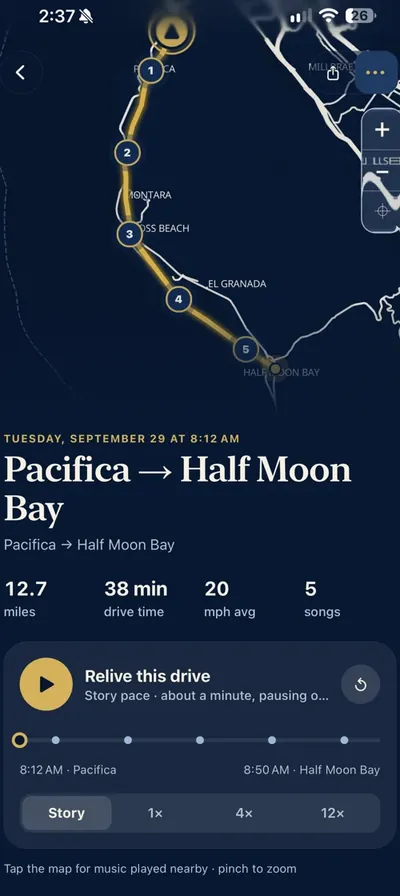
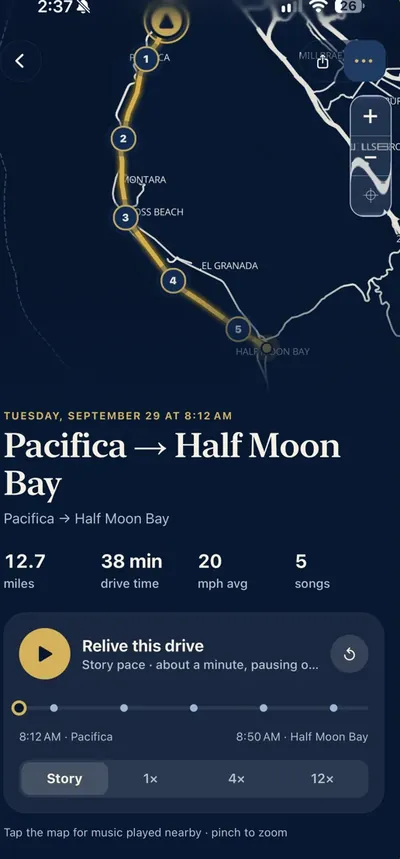
Speed up the Tesla page hero and say each fact once.
Preload the hero photo, pair the replay and Atlas shots, and match the FAQ and verify:live checks to the shorter copy.

diff --git a/web/tesla-drive-journal.html b/web/tesla-drive-journal.html
@@ -22,10 +22,12 @@
   <meta name="twitter:image:alt" content="JourneyDeck: every route, every song, every memory. A phone showing a Summer Vacation Memory.">
   <link rel="icon" type="image/png" sizes="192x192" href="/assets/favicon.png?v=app-logo-1">
   <link rel="apple-touch-icon" href="/assets/journeydeck-cinematic-180.png">
+  <link rel="preload" as="image" href="/assets/beta/grand-touring-home-800.webp?v=1" imagesrcset="/assets/beta/grand-touring-home-800.webp?v=1 800w, /assets/beta/grand-touring-home-1600.webp?v=1 1600w" imagesizes="(max-width: 620px) calc(100vw - 28px), 940px" fetchpriority="high">
   <link rel="stylesheet" href="/public-page.css?v=grand-tour-5">
   <link rel="stylesheet" href="/site-mobile-nav.css?v=2">
-  <link rel="stylesheet" href="/soundtrack-v2.css?v=2">
+  <link rel="stylesheet" href="/soundtrack-v2.css?v=3">
   <link rel="stylesheet" href="/public-a11y.css?v=2">
+  <style>.tesla-lede { text-wrap: pretty; }</style>
   <title>Tesla drive journal for iPhone | JourneyDeck</title>
   <script type="application/ld+json">
 {
@@ -37,7 +39,7 @@
       "name": "What happens without Tessie?",
       "acceptedAnswer": {
         "@type": "Answer",
-        "text": "You start a drive yourself. One tap or Siri. Those are the Start Journey and Stop Journey shortcuts. Automatic drive and charging history needs Plus and Tessie."
+        "text": "You start each drive yourself, with one tap or Siri. Automatic history needs Plus and Tessie."
       }
     },
     {
@@ -45,7 +47,7 @@
       "name": "What does the iPhone detect?",
       "acceptedAnswer": {
         "@type": "Answer",
-        "text": "The iPhone's GPS detects drives. Tessie turns on automatic drive detection and imports the car's drives and charging history from the last 30 days. That needs Plus and Tessie, and it runs on iPhone."
+        "text": "With Plus and Tessie, the iPhone's GPS detects your drives automatically, and Tessie imports the car's drives and charging history from the last 30 days."
       }
     },
     {
@@ -95,11 +97,11 @@
     <div class="header-actions"><details class="mobile-menu"><summary><span aria-hidden="true">☰</span> Menu</summary><nav aria-label="Mobile navigation"><a href="/">Home</a><a href="/tesla-drive-journal" aria-current="page">Tesla</a><a href="/apple-music-soundtrack">Soundtracks</a><a href="/privacy">Privacy</a><a class="nav-studio" href="https://studio.journeydeck.me">Studio <span aria-hidden="true">↗</span></a><a href="/support">Support</a></nav></details><a class="button button-small" href="https://apps.apple.com/us/app/journeydeck/id6806502526?pt=129344416&ct=tesla_page&mt=8">Get the app <span aria-hidden="true">↗</span></a></div>
   </header>
   <main class="page">
-    <section class="hero">
+    <section class="hero has-photo">
+      <img class="hero-photo" src="/assets/beta/grand-touring-home-800.webp?v=1" srcset="/assets/beta/grand-touring-home-800.webp?v=1 800w, /assets/beta/grand-touring-home-1600.webp?v=1 1600w" sizes="(max-width: 620px) calc(100vw - 28px), 940px" width="1536" height="1024" alt="" fetchpriority="high" decoding="async">
       <p class="eyebrow">TESLA / YOUR ARCHIVE</p>
       <h1>The trip, later</h1>
-      <p class="lede">I built JourneyDeck so a long drive would still be there when I got home. With Tessie and Plus, the iPhone's GPS detects the drives, and Tessie imports the car's drives and charging history from the last 30 days. Then you can replay the whole trip.</p>
-      <p>That's automatic drive and charging history with Tessie, a Plus feature. It needs both. iPhone only.</p>
+      <p class="lede tesla-lede">I built JourneyDeck so a long drive would still be there when I got home. With Tessie and Plus, the iPhone's GPS detects the drives, and Tessie imports the car's drives and charging history from the last 30 days. Then you can replay the whole trip. iPhone only.</p>
       <p>I'm one guy, and I still forget the drive by the time I park.</p>
       <div class="page-actions"><a class="contact" href="https://apps.apple.com/us/app/journeydeck/id6806502526?pt=129344416&ct=tesla_page&mt=8">Download on the App Store ↗</a></div>
     </section>
@@ -115,20 +117,20 @@
         <p>Without Tessie, you start a drive yourself. One tap or Siri. Those are the Start Journey and Stop Journey shortcuts.</p>
       </article>
     </section>
-    <section class="soundtrack-proof" aria-labelledby="replay-title">
+    <section class="soundtrack-proof soundtrack-proof--pair" aria-labelledby="replay-title">
       <div>
         <p class="eyebrow">LOOK BACK</p>
         <h2 id="replay-title">Replay, then Atlas.</h2>
-        <p>These are real screens from the app. A trip replay in JourneyDeck, and Atlas. Neither one is from a Tesla.</p>
+        <p>These are real screens from the app. Neither one shows a Tesla drive.</p>
       </div>
       <div class="soundtrack-shots">
         <figure>
-          <img src="/assets/v4/02-journey-screen-400.webp?v=1" srcset="/assets/v4/02-journey-screen-400.webp?v=1 400w, /assets/v4/02-journey-screen.webp?v=1 500w" sizes="(max-width: 700px) 255px, 300px" width="500" height="1120" loading="lazy" decoding="async" alt="A trip replay in JourneyDeck">
-          <figcaption>A trip replay in JourneyDeck</figcaption>
+          <img src="/assets/v4/02-journey-screen-400.webp?v=1" srcset="/assets/v4/02-journey-screen-400.webp?v=1 400w, /assets/v4/02-journey-screen.webp?v=1 516w" sizes="(max-width: 700px) 255px, 300px" width="516" height="1108" loading="lazy" decoding="async" alt="A trip replay in JourneyDeck. Not a Tesla drive.">
+          <figcaption>A trip replay in JourneyDeck. Not a Tesla drive.</figcaption>
         </figure>
         <figure>
-          <img src="/assets/v4/06-atlas-400.webp?v=1" srcset="/assets/v4/06-atlas-400.webp?v=1 400w, /assets/v4/06-atlas.webp?v=1 660w" sizes="(max-width: 700px) 255px, 300px" width="660" height="1434" loading="lazy" decoding="async" alt="Atlas in JourneyDeck">
-          <figcaption>Atlas in JourneyDeck</figcaption>
+          <img src="/assets/v4/06-atlas-400.webp?v=1" srcset="/assets/v4/06-atlas-400.webp?v=1 400w, /assets/v4/06-atlas.webp?v=1 660w" sizes="(max-width: 700px) 255px, 300px" width="660" height="1434" loading="lazy" decoding="async" alt="Atlas in JourneyDeck. Not Tesla data.">
+          <figcaption>Atlas in JourneyDeck. Not Tesla data.</figcaption>
         </figure>
       </div>
     </section>
@@ -137,7 +139,7 @@
         <h2>What's free</h2>
         <p>Free to record. No account required. Tessie is not part of the free app.</p>
         <ul>
-          <li>Manual drive recording and route viewing. One tap or Siri, the Start Journey and Stop Journey shortcuts.</li>
+          <li>Manual drive recording and route viewing.</li>
           <li>Today's journeys.</li>
           <li>Optional Apple Music soundtracks and Identify Song.</li>
           <li>Optional private iCloud continuity.</li>
@@ -148,15 +150,15 @@
       <article class="card">
         <h2>Plus</h2>
         <p>JourneyDeck Plus, $39.99/yr, 7-day free trial for new subscribers.</p>
-        <p>Plus keeps your full history and Atlas. That is automatic drive and charging history with Tessie, a Plus feature. Any Tessie fees are separate.</p>
+        <p>Plus keeps your full history and Atlas, and adds automatic drive and charging history with Tessie. Any Tessie fees are separate.</p>
         <div class="page-actions"><a class="contact" href="https://apps.apple.com/us/app/journeydeck/id6806502526?pt=129344416&ct=tesla_page&mt=8">Download on the App Store ↗</a></div>
       </article>
       <article class="card">
         <h2>Frequently asked questions</h2>
         <h3>What happens without Tessie?</h3>
-        <p>You start a drive yourself. One tap or Siri. Those are the Start Journey and Stop Journey shortcuts. Automatic drive and charging history needs Plus and Tessie.</p>
+        <p>You start each drive yourself, with one tap or Siri. Automatic history needs Plus and Tessie.</p>
         <h3>What does the iPhone detect?</h3>
-        <p>The iPhone's GPS detects drives. Tessie turns on automatic drive detection and imports the car's drives and charging history from the last 30 days. That needs Plus and Tessie, and it runs on iPhone.</p>
+        <p>With Plus and Tessie, the iPhone's GPS detects your drives automatically, and Tessie imports the car's drives and charging history from the last 30 days.</p>
         <h3>Do I need a Tesla?</h3>
         <p>No. You can record on an iPhone without a Tesla. Tessie is optional, for Tesla owners who already use it.</p>
         <h3>What iPhone does it need?</h3>

diff --git a/server/tests/api.test.ts b/server/tests/api.test.ts
@@ -276,7 +276,7 @@ test("public information and discovery pages are accessible without an authentic
     assert.equal(teslaJournal.statusCode, 200, teslaJournal.body);
     assert.match(String(teslaJournal.headers["content-type"]), /text\/html/);
     assert.match(teslaJournal.body, /<h1>The trip, later<\/h1>/);
-    assert.match(teslaJournal.body, /automatic drive and charging history with Tessie, a Plus feature/);
+    assert.match(teslaJournal.body, /Then you can replay the whole trip\. iPhone only\./);
     assert.match(teslaJournal.body, /the iPhone's GPS detects the drives/);
     assert.match(teslaJournal.body, /imports the car's drives and charging history from the last 30 days/);
     assert.match(teslaJournal.body, /Music &amp; Connections, and tap Connect Tessie/);
@@ -296,19 +296,29 @@ test("public information and discovery pages are accessible without an authentic
     assert.match(teslaJournal.body, /aria-label="Mobile navigation"><a href="\/">Home<\/a><a href="\/tesla-drive-journal" aria-current="page">Tesla<\/a><a href="\/apple-music-soundtrack">Soundtracks<\/a>/);
     assert.doesNotMatch(teslaJournal.body, /Tesla journal/);
     assert.match(teslaJournal.body, /href="\/public-a11y\.css\?v=2"/);
-    assert.match(teslaJournal.body, /alt="A trip replay in JourneyDeck"/);
-    assert.match(teslaJournal.body, /<figcaption>A trip replay in JourneyDeck<\/figcaption>/);
-    assert.match(teslaJournal.body, /alt="Atlas in JourneyDeck"/);
-    assert.match(teslaJournal.body, /srcset="\/assets\/v4\/02-journey-screen-400\.webp\?v=1 400w, \/assets\/v4\/02-journey-screen\.webp\?v=1 500w"/);
+    assert.match(teslaJournal.body, /alt="A trip replay in JourneyDeck\. Not a Tesla drive\."/);
+    assert.match(teslaJournal.body, /<figcaption>A trip replay in JourneyDeck\. Not a Tesla drive\.<\/figcaption>/);
+    assert.match(teslaJournal.body, /alt="Atlas in JourneyDeck\. Not Tesla data\."/);
+    assert.match(teslaJournal.body, /<figcaption>Atlas in JourneyDeck\. Not Tesla data\.<\/figcaption>/);
+    assert.match(teslaJournal.body, /srcset="\/assets\/v4\/02-journey-screen-400\.webp\?v=1 400w, \/assets\/v4\/02-journey-screen\.webp\?v=1 516w"/);
     assert.match(teslaJournal.body, /srcset="\/assets\/v4\/06-atlas-400\.webp\?v=1 400w, \/assets\/v4\/06-atlas\.webp\?v=1 660w"/);
-    assert.match(teslaJournal.body, /width="500" height="1120" loading="lazy"/);
+    assert.match(teslaJournal.body, /width="516" height="1108" loading="lazy"/);
     assert.match(teslaJournal.body, /width="660" height="1434" loading="lazy"/);
     assert.doesNotMatch(teslaJournal.body, /route-replay\.jpg|appstore-03/);
     const teslaFigures = teslaJournal.body.match(/<figure>[\s\S]*?<\/figure>/gi)?.join("\n") ?? "";
-    assert.doesNotMatch(teslaFigures, /tesla|tessie/i);
+    assert.doesNotMatch(teslaFigures, /tessie/i);
+    assert.match(teslaJournal.body, /rel="preload" as="image" href="\/assets\/beta\/grand-touring-home-800\.webp\?v=1"/);
+    assert.match(teslaJournal.body, /class="hero has-photo"/);
+    assert.match(teslaJournal.body, /class="hero-photo"/);
+    assert.match(teslaJournal.body, /class="soundtrack-proof soundtrack-proof--pair"/);
+    assert.match(teslaJournal.body, /class="lede tesla-lede"/);
+    assert.equal((teslaJournal.body.match(/Start Journey/g) || []).length, 1);
+    assert.equal((teslaJournal.body.match(/Stop Journey/g) || []).length, 1);
     const teslaVisible = teslaJournal.body.replace(/<head[\s\S]*?<\/head>/i, "").replace(/<script[\s\S]*?<\/script>/gi, "");
     assert.equal((teslaVisible.match(/JourneyDeck Plus, \$39\.99\/yr, 7-day free trial for new subscribers\./g) || []).length, 2);
-    assert.equal((teslaVisible.match(/automatic drive and charging history with Tessie, a Plus feature/g) || []).length, 2);
+    assert.equal((teslaVisible.match(/One tap or Siri\. Those are the Start Journey and Stop Journey shortcuts\./g) || []).length, 1);
+    assert.equal((teslaVisible.match(/automatic drive and charging history with Tessie\./g) || []).length, 1);
+    assert.doesNotMatch(teslaVisible, /a Plus feature/);
     assert.match(teslaJournal.body, /href="\/privacy"/);
     assert.match(teslaJournal.body, /href="\/apple-music-soundtrack"/);
     assert.match(teslaJournal.body, /class="contact" href="https:\/\/apps\.apple\.com\/us\/app\/journeydeck\/id6806502526\?pt=129344416&ct=tesla_page&mt=8">Download on the App Store/);

diff --git a/tests/e2e/public-beta.spec.ts b/tests/e2e/public-beta.spec.ts
@@ -27,14 +27,14 @@ test('homepage and Tesla page show annual Plus pricing', async ({ page }) => {
     await page.goto('/tesla-drive-journal.html');
     const plusCard = page.locator('article.card').filter({ has: page.getByRole('heading', { level: 2, name: 'Plus' }) });
     await expect(plusCard).toContainText('JourneyDeck Plus, $39.99/yr, 7-day free trial for new subscribers.');
-    await expect(plusCard).toContainText('automatic drive and charging history with Tessie, a Plus feature');
+    await expect(plusCard).toContainText('Plus keeps your full history and Atlas, and adds automatic drive and charging history with Tessie.');
     await expect(page.locator('h1')).toHaveText('The trip, later');
     await expect(page.locator('main')).not.toContainText('$39.99/year');
     await expect(page.locator('main')).not.toContainText('0.99');
     await expect(page.locator('main')).not.toContainText('2.99');
     await expect(page.locator('main')).not.toContainText('3-day');
     await expect(page.locator('main')).not.toContainText('monthly');
-    await expect(page.locator('figcaption').first()).toHaveText('A trip replay in JourneyDeck');
+    await expect(page.locator('figcaption').first()).toHaveText('A trip replay in JourneyDeck. Not a Tesla drive.');
     await expect(page.locator('figure img').first()).toHaveAttribute('loading', 'lazy');
   }
 });

diff --git a/server/tests/verify-live.test.ts b/server/tests/verify-live.test.ts
@@ -104,7 +104,8 @@ test("expectations loader reads the checked-in file and rejects incomplete objec
   assert.ok(expectations.pages["/tesla-drive-journal"].forbiddenPhrases.includes("2.99"));
   assert.ok(expectations.pages["/tesla-drive-journal"].forbiddenPhrases.includes("monthly"));
   assert.ok(expectations.pages["/tesla-drive-journal"].forbiddenPhrases.includes("$39.99/year"));
-  assert.ok(expectations.pages["/tesla-drive-journal"].requiredPhrases.includes("automatic drive and charging history with Tessie, a Plus feature"));
+  assert.ok(expectations.pages["/tesla-drive-journal"].requiredPhrases.includes("Plus keeps your full history and Atlas, and adds automatic drive and charging history with Tessie."));
+  assert.ok(expectations.pages["/tesla-drive-journal"].requiredPhrases.includes("Neither one shows a Tesla drive."));
   assert.equal(expectations.appStore.pageCampaigns["/apple-music-soundtrack"], "soundtrack");
   assert.equal(expectations.appStore.pageCampaigns["/private-driving-journal"], "journal");
   assert.equal(expectations.appStore.pageCampaigns["/road-trip-tracker-app"], "journal");

diff --git a/web/soundtrack-v2.css b/web/soundtrack-v2.css
@@ -11,3 +11,4 @@
 .soundtrack-step-grid h3 { margin:12px 0; }
 .soundtrack-step-grid p { margin:0; }
 @media(max-width:700px) { .soundtrack-proof { grid-template-columns:1fr; margin:36px 0; padding:28px 22px; } .soundtrack-proof img { width:min(100%,255px); } .soundtrack-step-grid { grid-template-columns:1fr; gap:22px; } }
+@media (min-width:701px){ .soundtrack-proof--pair{ grid-template-columns:minmax(0,1fr) minmax(0,640px);} .soundtrack-proof--pair .soundtrack-shots{ grid-template-columns:repeat(2,minmax(0,1fr)); align-items:start; } }

diff --git a/.ai/HANDOFF.md b/.ai/HANDOFF.md
@@ -2,28 +2,27 @@
 
 ## Current objective
 
-Keep draft PR #299 open. The Tesla landing page is rebased onto main `102a13b`, which already redirects `/homeworld`. Do not merge and do not deploy.
+Keep draft PR #299 open. Apply the design review on the Tesla landing page. Do not merge and do not deploy.
 
 ## Checkout
 
-- Branch `cursor/tesla-journal-landing-e036`.
+- Branch `cursor/tesla-journal-landing-e036`, on top of `3a793d6`.
 - Draft PR: https://github.com/drumpat01/DriveOS/pull/299
 
 ## Material changes
 
-- `web/tesla-drive-journal.html` keeps the URL, canonical, Umami script, and CSP. Headline is "The trip, later".
-- Price line is exactly `JourneyDeck Plus, $39.99/yr, 7-day free trial for new subscribers`.
-- Automatic recording is `automatic drive and charging history with Tessie, a Plus feature`. It needs Plus and Tessie. iPhone only.
-- Without Tessie: one tap or Siri, the Start Journey and Stop Journey shortcuts.
-- Tessie setup is the three owner steps through Music & Connections.
-- Screenshot caption says the captures are not from a Tesla.
-- `tools/verify-live` keeps both the Tesla page checks and the `/homeworld` 301 checks from main.
+- Hero uses the preloaded `has-photo` image from the private driving journal page.
+- Copy says each fact once. The shortcut explanation stays on the Tessie card. The price line stays on the Plus card and in the FAQ.
+- Replay and Atlas sit side by side from 701px up via `soundtrack-proof--pair`.
+- Replay crop is box `(80, 292, 596, 1400)`, 516 by 1108. The right edge is 596 so the zoom controls show. The top starts at 292 so the rounded-corner mat stays outside. A 12px border scan found no marketing-mat pixels.
+- Captions say the screens are not a Tesla drive and not Tesla data.
 
 ## Verification
 
 - `npm run check:server` and `npm run lint:server` passed.
 - `npm run test:server`: 68 passed. `npm run test:e2e`: 19 passed.
-- `node tools/verify-live/verify-live.mjs --base http://127.0.0.1:8792`: 214 checks, 0 failed. Tesla headline, pricing, and copy passed. `redirect:/homeworld` and `redirect:/homeworld/` passed.
+- Local `verify:live` at `http://127.0.0.1:8792`: 214 checks, 0 failed, including Tesla copy and both `/homeworld` redirects.
+- Lighthouse mobile: performance 100, LCP 1.9 s on `.hero-photo`. SEO 92 is the existing `Content-Signal` line in `robots.txt`.
 
 ## Unresolved
 

diff --git a/tools/verify-live/FEATURE_MAP.md b/tools/verify-live/FEATURE_MAP.md
@@ -58,7 +58,7 @@ JSON-LD blocks live in `web/beta.html`, `web/apple-music-soundtrack.html`, `web/
 
 - Owner: public HTML, including visible copy and JSON-LD offers. Privacy and terms meta descriptions do not pitch the price. Plus is $39.99/year, with a 7-day free trial.
 - Required phrases: `$39.99/year`, `7-day free trial`.
-- `/tesla-drive-journal` replaces that required price line with `expectations.pages["/tesla-drive-journal"].requiredPricingPhrases`: `JourneyDeck Plus, $39.99/yr, 7-day free trial for new subscribers`. Its `headline` check expects `The trip, later`. Its `copy` check requires the Tessie wording in `requiredPhrases` and forbids `2.99`, `monthly`, `$39.99/year`, `CarPlay`, `Bluetooth`, `motion trigger`, `the car records`, and `navigation app`, plus the global price and trial bans.
+- `/tesla-drive-journal` replaces that required price line with `expectations.pages["/tesla-drive-journal"].requiredPricingPhrases`: `JourneyDeck Plus, $39.99/yr, 7-day free trial for new subscribers`. Its `headline` check expects `The trip, later`. Its `copy` check requires the edited Tessie wording in `requiredPhrases`, including `iPhone only.`, the one shortcut explanation, and `Neither one shows a Tesla drive.` It forbids `2.99`, `monthly`, `$39.99/year`, `CarPlay`, `Bluetooth`, `motion trigger`, `the car records`, and `navigation app`, plus the global price and trial bans.
 - Forbidden price phrases (case-insensitive): `0.99`, `24.99`, `per week`, `weekly`.
 - Free recording stays available.
 - Checks: `page:<path> pricing`.
